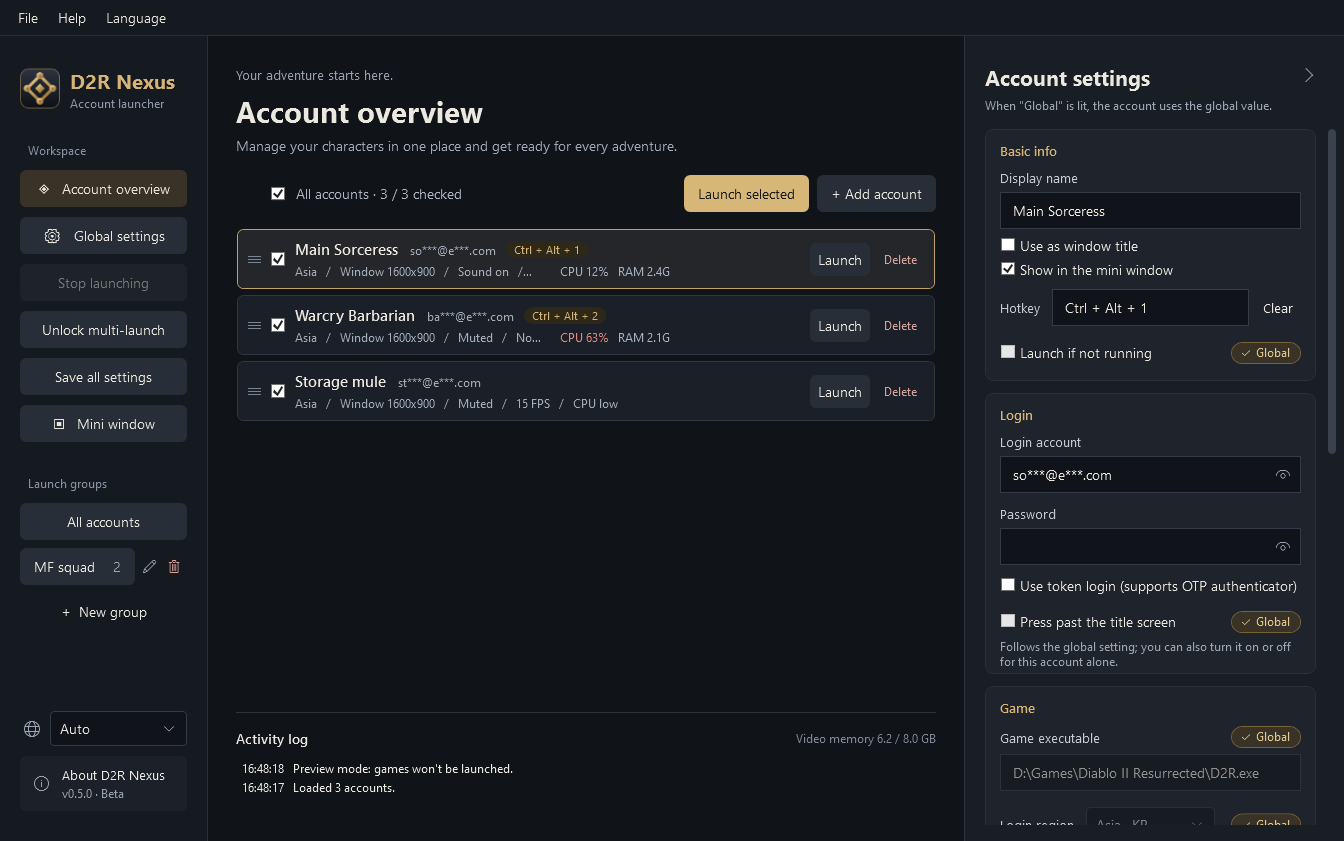
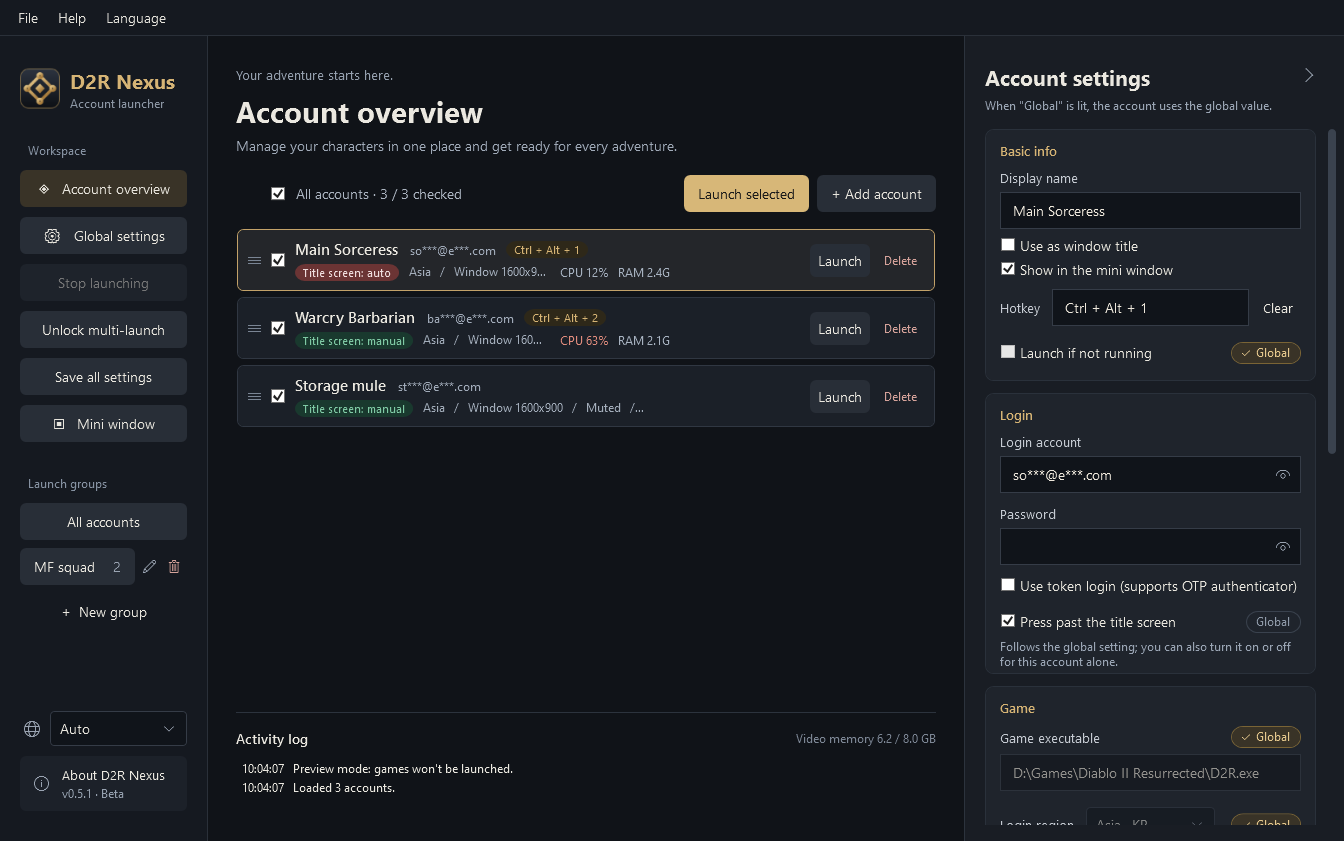
Add files via upload

diff --git a/SECURITY.ko.md b/SECURITY.ko.md
@@ -44,7 +44,7 @@
 | 새 버전 확인 | 프로그램을 열 때 이 프로젝트 Release의 버전 번호를 읽고, 현재 버전보다 새로우면 알려 줍니다. 자동으로 다운로드하거나 설치하지 않으며, 전역 설정에서 끌 수 있습니다 |
 | OTP 계정 로그인 | Battle.net 공식 로그인 페이지를 열어 로그인 토큰을 받고, Battle.net 런처가 자체적으로 사용하는 Windows 레지스트리 위치에 기록합니다. 게임이 읽고 나면 자동으로 비워집니다 |
 | 직접 실행한 게임 알아보기 | 프로세스 번호, 실행 시각, 실행 파일 경로를 기억해 같은 계정이 중복으로 실행되지 않게 합니다 |
-| 시작 화면 대신 눌러 주기(기본값 꺼짐) | 사용자가 직접 켜고 동의한 뒤에만, Nexus가 실행한 그 게임 창에 스페이스바 하나를 보내 게임의 '아무 키나 누르십시오'를 대신 눌러 줍니다. 그 창에만, 로그인이 끝나기 전까지만 보내며, 로그인이 끝나거나 창이 닫히면 멈춥니다. 컴퓨터 전체에 키보드를 흉내 내는 것이 아니라 그 창 하나에 보내는 Windows 메시지이므로 다른 프로그램은 받지 않습니다. 동의한 시각과 그때의 안내문은 사용자의 컴퓨터에 남습니다. 계정마다 별도의 스위치도 있어 특정 계정을 완전히 제외할 수 있습니다 |
+| 시작 화면 대신 눌러 주기(기본값 꺼짐) | 사용자가 직접 켜고 동의한 뒤에만, Nexus가 실행한 그 게임 창에 스페이스바 하나를 보내 게임의 '아무 키나 누르십시오'를 대신 눌러 줍니다. 그 창에만, 로그인이 끝나기 전까지만 보내며, 로그인이 끝나거나 창이 닫히면 멈춥니다. 컴퓨터 전체에 키보드를 흉내 내는 것이 아니라 그 창 하나에 보내는 Windows 메시지이므로 다른 프로그램은 받지 않습니다. 동의한 시각과 그때의 안내문은 사용자의 컴퓨터에 남습니다. 계정마다 별도의 스위치도 있어 특정 계정을 완전히 제외할 수 있습니다. 계정 목록의 각 행에는 빨간색 '시작 화면: 자동' 또는 초록색 '시작 화면: 수동'이 표시되어 어떤 계정이 사용 중인지 알 수 있습니다 |
 
 ## 하지 않는 일
 

diff --git a/SECURITY.en.md b/SECURITY.en.md
@@ -44,7 +44,7 @@ When the game starts, it creates a system marker that says "one is already open"
 | Check for new versions | At startup, reads the version number from this project's Releases and lets you know if it's newer than the current one. It never downloads or installs anything automatically, and can be turned off in Global settings |
 | OTP account login | Opens the official Battle.net login page to get a login token, and writes it to the Windows registry location that the Battle.net launcher itself uses; the game clears it automatically after reading it |
 | Recognize the games it opened | Remembers the process ID, start time, and executable path, so the same account isn't opened twice |
-| Press past the title screen (off by default) | After you have turned it on and agreed, sends a single space bar to the game window Nexus opened, getting past the game's own "Press any key to continue". Only to that window, only before the sign-in finishes, and it stops when the sign-in is done or the window closes. It is a Windows message to that one window, not simulated keyboard input to the whole machine, so no other program receives it. The time you agreed and the text you agreed to are kept on your own computer. Each account has its own switch as well, so an account can be kept out of it entirely |
+| Press past the title screen (off by default) | After you have turned it on and agreed, sends a single space bar to the game window Nexus opened, getting past the game's own "Press any key to continue". Only to that window, only before the sign-in finishes, and it stops when the sign-in is done or the window closes. It is a Windows message to that one window, not simulated keyboard input to the whole machine, so no other program receives it. The time you agreed and the text you agreed to are kept on your own computer. Each account has its own switch as well, so an account can be kept out of it entirely. Every row in the account list is marked "Title screen: auto" in red or "Title screen: manual" in green, so you can see which accounts use it |
 
 ## What it doesn't do
 

diff --git a/SECURITY.zh-CN.md b/SECURITY.zh-CN.md
@@ -44,7 +44,7 @@
 | 检查新版本 | 打开时读取本项目 Release 的版本号，比当前版本新就提示。不会自动下载或安装，可在全局设置里关闭 |
 | OTP 账号登录 | 打开 Battle.net 官方登录页获取登录 Token，写到 Battle.net 启动器本身使用的 Windows 注册表位置；游戏读取后会自动清空 |
 | 识别自己打开的游戏 | 记住进程 ID、启动时间与可执行文件路径，避免同一个账号被重复启动 |
-| 自动按掉开场画面（默认关闭） | 你自己开启并按下同意之后，对 Nexus 启动的那个游戏窗口送出一个空格键，按掉游戏本身的“按任意键即可开始”。只送给那个窗口，只在登录完成前，登录完成或窗口关掉就停。用的是送给那一个窗口的 Windows 消息，不是对整台电脑模拟键盘，其他程序收不到。同意的时间与当时的内容留在你自己的电脑上。每个账号也有自己的开关，可以让某些账号完全不使用 |
+| 自动按掉开场画面（默认关闭） | 你自己开启并按下同意之后，对 Nexus 启动的那个游戏窗口送出一个空格键，按掉游戏本身的“按任意键即可开始”。只送给那个窗口，只在登录完成前，登录完成或窗口关掉就停。用的是送给那一个窗口的 Windows 消息，不是对整台电脑模拟键盘，其他程序收不到。同意的时间与当时的内容留在你自己的电脑上。每个账号也有自己的开关，可以让某些账号完全不使用。账号总览每一列会用红色“开场画面：自动”与绿色“开场画面：手动”标出这个账号有没有在用 |
 
 ## 不会做的事
 

diff --git a/SECURITY.md b/SECURITY.md
@@ -44,7 +44,7 @@
 | 檢查新版本 | 開啟時讀取本專案 Release 的版本號，比目前版本新就提示。不會自動下載或安裝，可在全域設定關閉 |
 | OTP 帳號登入 | 開啟 Battle.net 官方登入頁取得登入 Token，寫到 Battle.net 啟動器本身使用的 Windows 登錄位置；遊戲讀取後會自動清空 |
 | 認出自己開的遊戲 | 記住程序編號、啟動時間與執行檔路徑，避免同一個帳號被重複開啟 |
-| 自動按掉開場畫面（預設關閉） | 你自己開啟並按下同意之後，對 Nexus 啟動的那個遊戲視窗送出一個空白鍵，按掉遊戲本身的「按任意鍵即可開始」。只送給那個視窗，只在登入完成前，登入完成或視窗關掉就停。用的是送給那一個視窗的 Windows 訊息，不是對整台電腦模擬鍵盤，其他程式收不到。同意的時間與當時的內容留在你自己的電腦上。每個帳號也有自己的開關，可以讓某些帳號完全不使用 |
+| 自動按掉開場畫面（預設關閉） | 你自己開啟並按下同意之後，對 Nexus 啟動的那個遊戲視窗送出一個空白鍵，按掉遊戲本身的「按任意鍵即可開始」。只送給那個視窗，只在登入完成前，登入完成或視窗關掉就停。用的是送給那一個視窗的 Windows 訊息，不是對整台電腦模擬鍵盤，其他程式收不到。同意的時間與當時的內容留在你自己的電腦上。每個帳號也有自己的開關，可以讓某些帳號完全不使用。帳號總覽每一列會用紅色「開場畫面：自動」與綠色「開場畫面：手動」標出這個帳號有沒有在用 |
 
 ## 不會做的事
 

diff --git a/README.ko.md b/README.ko.md
@@ -35,6 +35,7 @@
 > - 이 기능의 **기본값은 꺼짐**입니다. 켜지 않으면 Nexus의 동작은 이전과 완전히 같으며 어떤 키도 보내지 않습니다.
 > - 쓰려면 '전역 설정 → 로그인 도우미'에서 직접 켜야 합니다. 무엇을 하는지 먼저 안내하고, 5초를 센 뒤에야 동의 버튼을 누를 수 있습니다.
 > - 켜면 프로그램이 게임을 대신 조작하는 것이 됩니다. **계정에 대한 위험은 본인이 감수**하므로 충분히 생각한 뒤에 결정하세요.
+> - **계정 목록의 모든 행에 표시됩니다.** 프로그램이 대신 눌러 주는 계정은 **빨간색 '시작 화면: 자동'**, 그렇지 않은 계정은 **초록색 '시작 화면: 수동'**으로 표시되어 아무것도 열지 않고도 어떤 계정이 이 기능을 쓰는지 알 수 있습니다. 사용하는 계정이 하나도 없으면 이 표시는 나타나지 않습니다.
 > - **계정마다 별도의 스위치도 있습니다.** 주 계정이나 창고 계정을 완전히 제외하려면 그 계정에서 '전역 설정 사용'을 끄고 꺼진 상태로 두세요. 한 계정만 켤 때도 다시 한 번 확인합니다.
 >
 > 무엇을 어디까지 하고 언제 멈추는지는 [보안 안내](SECURITY.ko.md)에 적혀 있습니다.

diff --git a/README.en.md b/README.en.md
@@ -35,6 +35,7 @@ To keep your main account or a mule out of this entirely, leave it off for that 
 > - The feature is **off by default**. Leave it off and Nexus behaves exactly as it did before, sending no keys at all.
 > - To use it you have to turn it on yourself under "Global settings → Help with signing in". You are first shown what it does, and the agree button only becomes available after a five-second countdown.
 > - Once it is on, the program is operating the game for you. **The risk to your account is yours**, so weigh it before you decide.
+> - **Every row in the account list says so.** An account the program presses for is marked **"Title screen: auto" in red**; one it leaves alone is **"Title screen: manual" in green**, so you can see which accounts use the feature without opening anything. With no account using it, the mark does not appear at all.
 > - **Each account has its own switch too.** To keep your main account or a mule out of it entirely, turn off "Use the global setting" on that account and leave it off. Turning it on for one account asks you again.
 >
 > What it does, how far it goes and when it stops are in the [security notes](SECURITY.en.md).

diff --git a/README.zh-CN.md b/README.zh-CN.md
@@ -35,6 +35,7 @@
 > - 这个功能**默认是关闭的**。不开启的话，Nexus 的行为和以前完全一样，一个按键都不会送出。
 > - 要用的话得自己到“全局设置 → 登录协助”开启，程序会先把做了什么说清楚，倒数五秒后你按下同意才会生效。
 > - 开启之后，等于由程序替你操作游戏。**账号风险由你自己承担**，请先衡量再决定。
+> - **账号总览每一列都会标出来。** 会被程序代按的账号是**红色的“开场画面：自动”**，不会的是**绿色的“开场画面：手动”**，不用点进设置就看得出哪几个账号正在用这个功能。全部账号都没开时，这个标示不会出现。
 > - **每个账号也有自己的开关。** 想让主账号或仓库号完全不碰这个功能，就在那个账号取消“沿用全局”并让它保持关闭。账号单独开启时一样会问你一次。
 >
 > 做法、范围与停止条件写在[安全说明](SECURITY.zh-CN.md)。

diff --git a/README.md b/README.md
@@ -35,6 +35,7 @@
 > - 這個功能**預設是關閉的**。不開啟的話，Nexus 的行為和以前完全一樣，一個按鍵都不會送出。
 > - 要用的話得自己到「全域設定 → 登入協助」開啟，程式會先把做了什麼說清楚，倒數五秒後你按下同意才會生效。
 > - 開啟之後，等於由程式替你操作遊戲。**帳號風險由你自己承擔**，請先衡量再決定。
+> - **帳號總覽每一列都會標出來。** 會被程式代按的帳號是**紅色的「開場畫面：自動」**，不會的是**綠色的「開場畫面：手動」**，不用點進設定就看得出哪幾個帳號正在用這個功能。全部帳號都沒開時，這個標示不會出現。
 > - **每個帳號也有自己的開關。** 想讓主帳號或倉庫號完全不碰這個功能，就在那個帳號取消「沿用全域」並讓它保持關閉。帳號單獨開啟時一樣會問你一次。
 >
 > 做法、範圍與停止條件寫在[安全性說明](SECURITY.md)。

diff --git a/CHANGELOG.ko.md b/CHANGELOG.ko.md
@@ -4,6 +4,12 @@
 
 최신 버전이 맨 위에 있습니다. 다운로드는 [Releases](https://github.com/MoroseDog/D2RNexus/releases)에서 하세요.
 
+## v0.5.1 (2026-10-03)
+
+**개선**
+
+- **계정 목록의 각 행에 자동 키 입력 상태가 표시됩니다.** 프로그램이 대신 눌러 주는 계정은 빨간색 '시작 화면: 자동', 그렇지 않은 계정은 초록색 '시작 화면: 수동'으로 표시됩니다. v0.5.0에서 이 기능을 계정마다 따로 설정할 수 있게 했지만, 화면에서는 어떤 계정이 켜져 있는지 알 수 없어 하나씩 열어 확인해야 했습니다. 이제는 한눈에 알 수 있습니다. 사용하는 계정이 없으면 표시가 나타나지 않으므로 자리를 차지하지 않습니다.
+
 ## v0.5.0 (2026-10-02)
 
 **추가**

diff --git a/CHANGELOG.en.md b/CHANGELOG.en.md
@@ -4,6 +4,12 @@
 
 The newest version is at the top. Download from [Releases](https://github.com/MoroseDog/D2RNexus/releases).
 
+## v0.5.1 (2026-10-03)
+
+**Improved**
+
+- **Every row in the account list now shows the state of the automatic key press.** An account the program presses for is marked "Title screen: auto" in red; one it leaves alone is "Title screen: manual" in green. v0.5.0 made the feature settable per account, but nothing on screen said which accounts had it on — you had to open each one to find out. Now a glance is enough. With no account using it the mark does not appear, so it costs no space.
+
 ## v0.5.0 (2026-10-02)
 
 **Added**

diff --git a/CHANGELOG.md b/CHANGELOG.md
@@ -4,6 +4,12 @@
 
 最新的版本在最上面。下載請到 [Releases](https://github.com/MoroseDog/D2RNexus/releases)。
 
+## v0.5.1（2026-10-03）
+
+**改善**
+
+- **帳號總覽每一列會標出自動按鍵的狀態**：會被程式代按開場畫面的帳號是**紅色的「開場畫面：自動」**，不會的是**綠色的「開場畫面：手動」**。v0.5.0 把這個功能做成每個帳號可以分開設定，但畫面上看不出來誰開誰沒開，得一個一個點進設定確認；現在掃一眼就知道。全部帳號都沒開時不顯示這個標示，不會多佔位置。
+
 ## v0.5.0（2026-10-02）
 
 **新增**

diff --git a/CHANGELOG.zh-CN.md b/CHANGELOG.zh-CN.md
@@ -4,6 +4,12 @@
 
 最新的版本在最上面。下载请到 [Releases](https://github.com/MoroseDog/D2RNexus/releases)。
 
+## v0.5.1（2026-10-03）
+
+**改进**
+
+- **账号总览每一列会标出自动按键的状态**：会被程序代按开场画面的账号是**红色的“开场画面：自动”**，不会的是**绿色的“开场画面：手动”**。v0.5.0 把这个功能做成每个账号可以分开设置，但画面上看不出来谁开谁没开，得一个一个点进设置确认；现在扫一眼就知道。全部账号都没开时不显示这个标示，不会多占位置。
+
 ## v0.5.0（2026-10-02）
 
 **新增**
